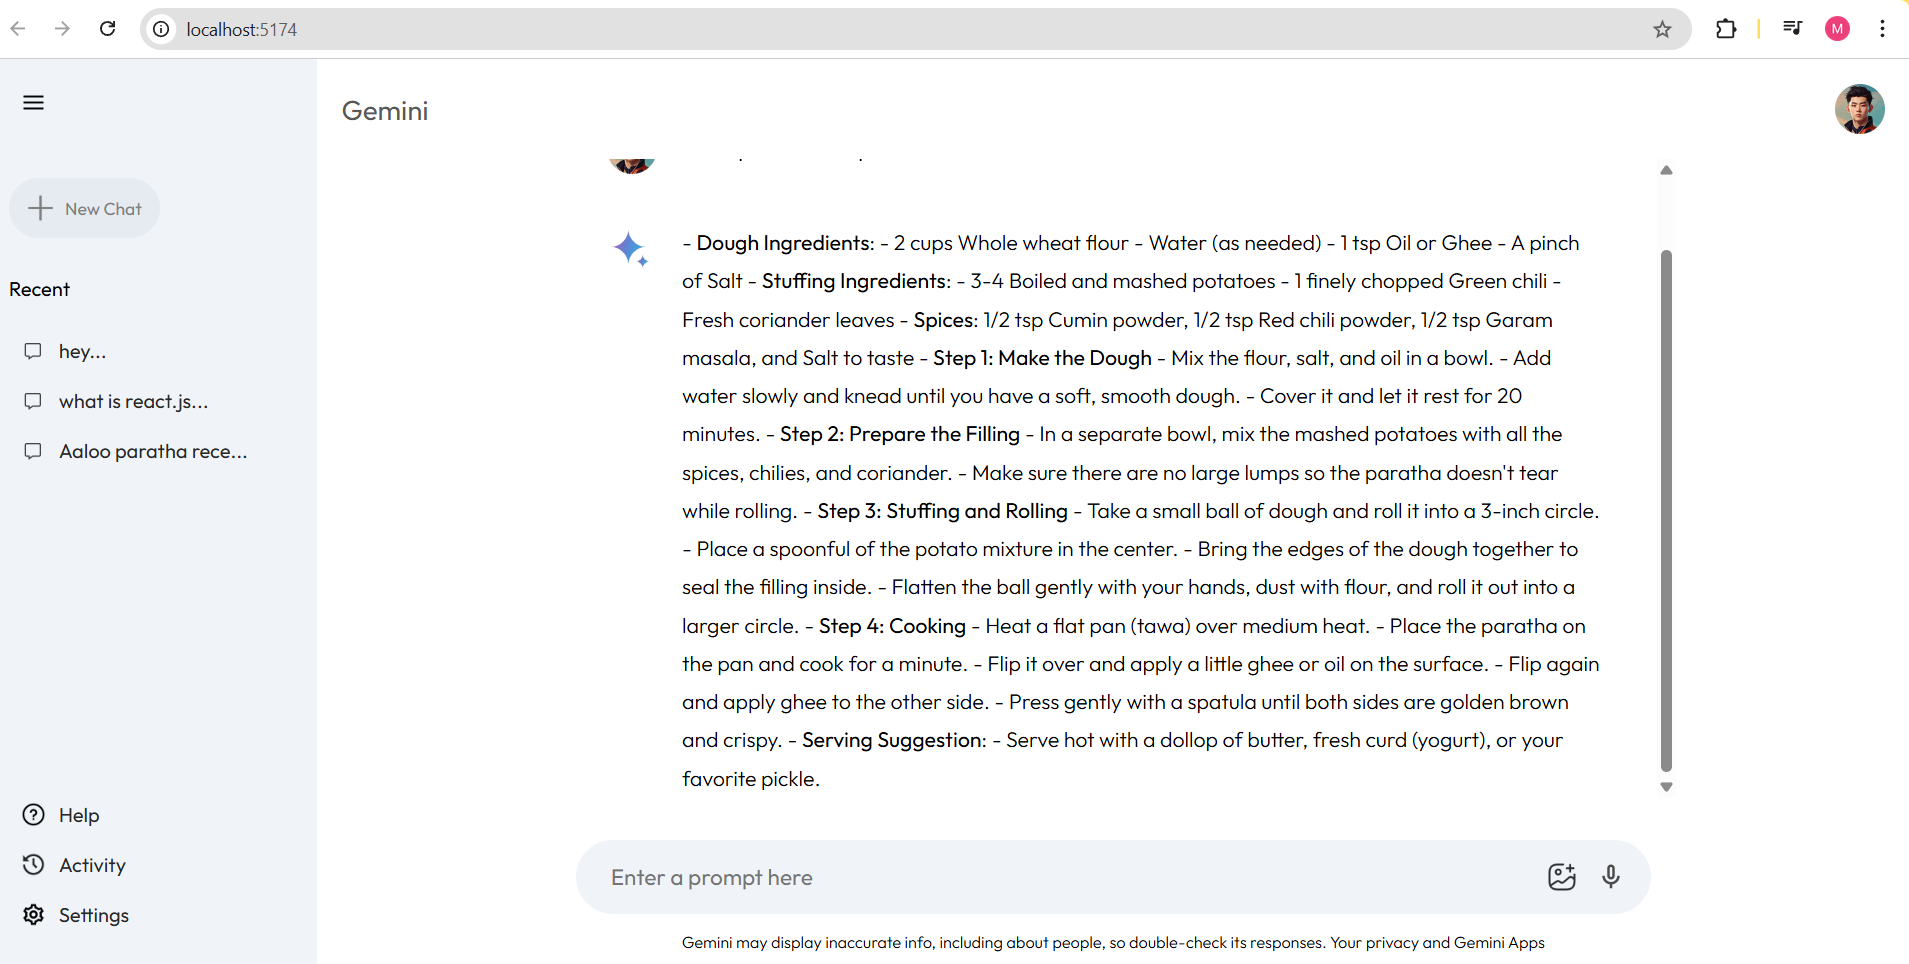
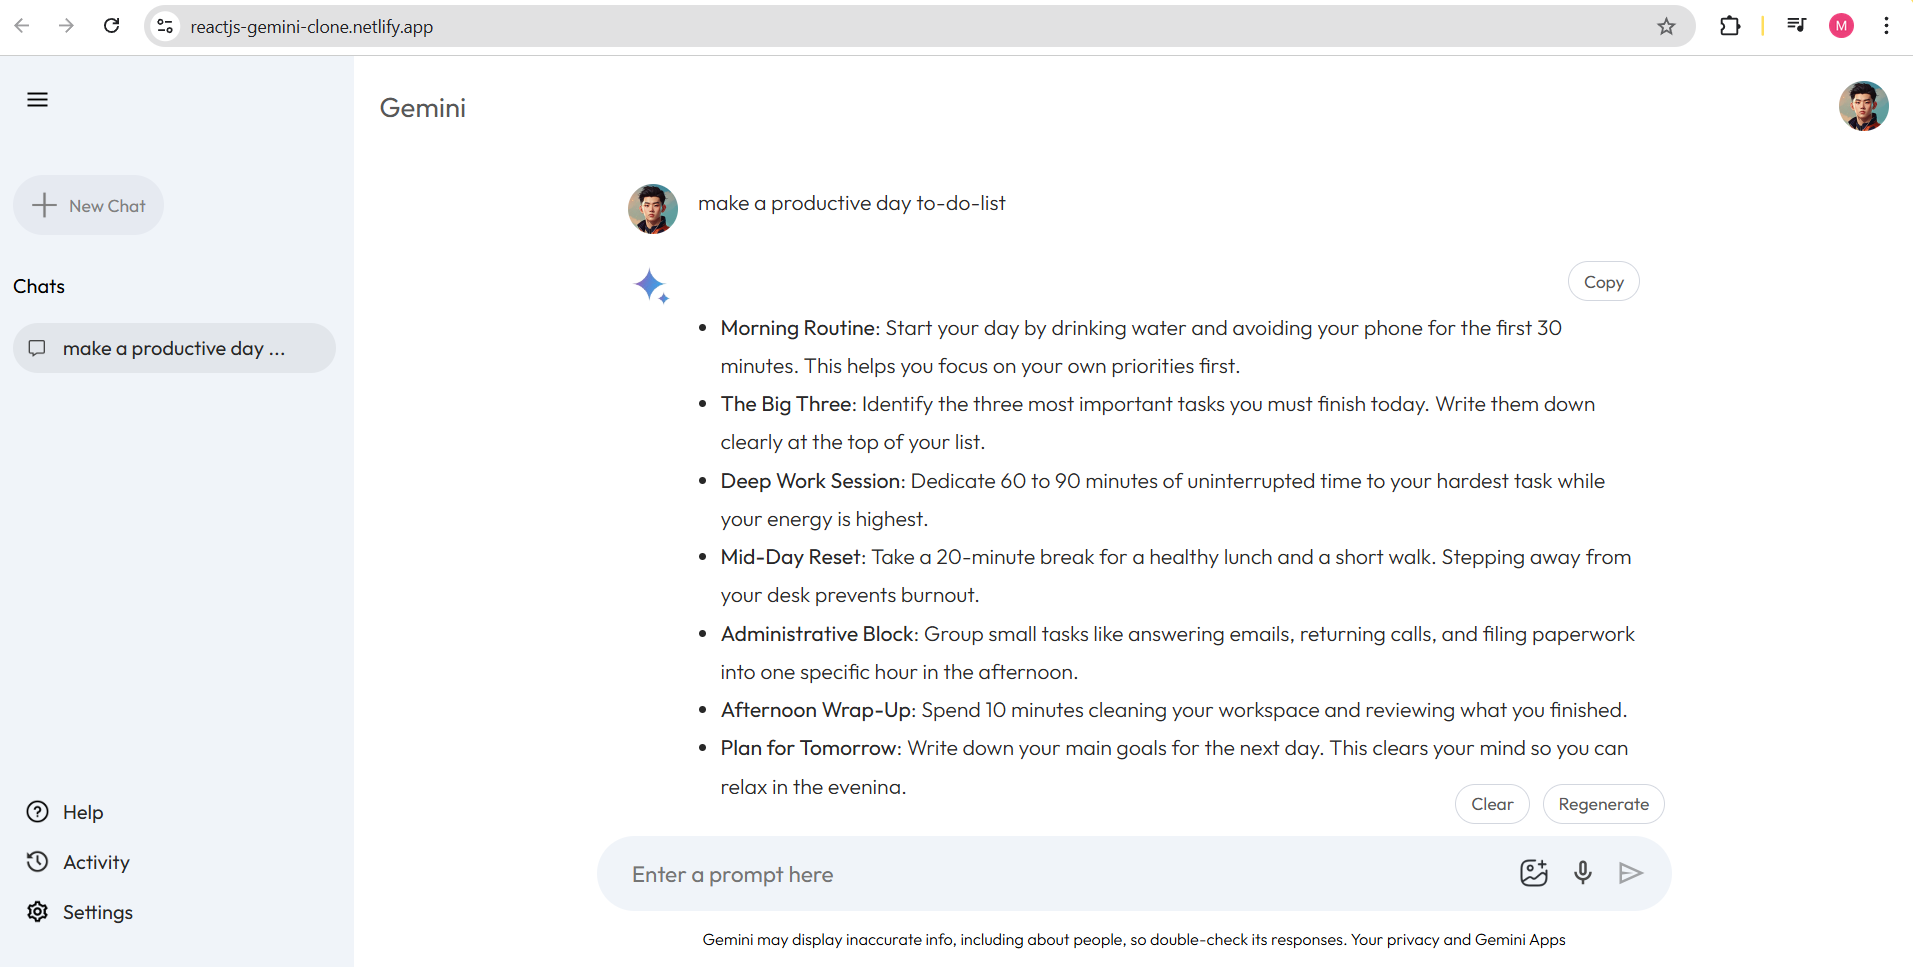
update readme

diff --git a/README.md b/README.md
@@ -1,6 +1,5 @@
 <div align="center">
 
-
 <img src="https://capsule-render.vercel.app/api?type=waving&color=gradient&customColorList=6,11,20&height=200&section=header&text=GEMINI%20CLONE&fontSize=80&fontAlignY=35&animation=twinkling&fontColor=fff"/>
 
 <br/>
@@ -30,11 +29,19 @@ A modern, sleek Gemini AI chat interface built with React and Vite. This clone b
 
 <div align="center">
 
-
 ### 📸 Explore The Interface
 
 <table>
 <tr>
+
+<td align="center" width="50%">
+<img src="src/assets/landing-page.png" width="100%" style="border-radius: 10px; box-shadow: 0 4px 8px rgba(0,0,0,0.1);"/>
+<br/><br/>
+<b>Landing Page</b>
+<br/>
+<sub>Try Suggestions to Generate Response</sub>
+</td>
+
 <td align="center" width="50%">
 <img src="src/assets/planning.png" width="100%" style="border-radius: 10px; box-shadow: 0 4px 8px rgba(0,0,0,0.1);"/>
 <br/><br/>
@@ -42,13 +49,7 @@ A modern, sleek Gemini AI chat interface built with React and Vite. This clone b
 <br/>
 <sub>AI-generated to-do lists that actually work</sub>
 </td>
-<td align="center" width="50%">
-<img src="src/assets/receipe.png" width="100%" style="border-radius: 10px; box-shadow: 0 4px 8px rgba(0,0,0,0.1);"/>
-<br/><br/>
-<b>Recipe Mastery</b>
-<br/>
-<sub>From ingredients to perfection</sub>
-</td>
+
 </tr>
 </table>
 
